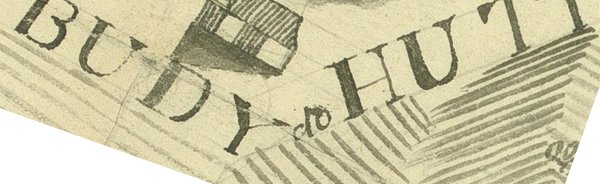
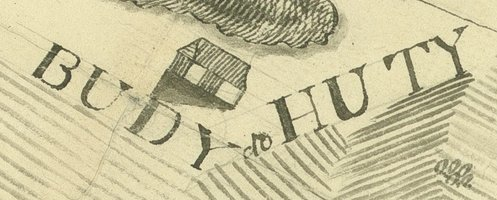
The maps: the editor's final marks on Łukom 1766; a second import made safe
The editor's bands set (100 to 240 pixels) and the eleven labels imported
again: all crops whole and upright. import_labels.py reuses the gazetteer
item already linked to a label and unlinks labels deleted since, so a
second import no longer adds duplicates. Notes, TODO 33, the changelog and
ADDING_A_MAP updated.

diff --git a/pipeline/maps/import_labels.py b/pipeline/maps/import_labels.py
@@ -219,6 +219,17 @@ def main():
     print(f"{len(labels)} labels, {made} crops -> {cdir}")
 
     diffs, news = [], []
+    # A second import of the same map: unlink the labels the editor has since
+    # deleted, and reuse the item already linked to a label (never add a second).
+    ids = {lb["id"] for lb in labels}
+    for path in sorted(GAZETTEER_DIR.glob("*.yml")):
+        g = read_yaml(path)
+        stale = [i for i in g.get("maps") or [] if i.get("map") == key and i.get("label") and i["label"] not in ids]
+        if stale:
+            for i in stale:
+                diffs.append(f"{i['label']}: no longer marked; unlinked from {g.get('slug')}")
+                del i["label"]
+            dump_yaml(path, g, header_of(path))
     for lb in labels:
         if lb["new_place"] and not lb["place"]:
             news.append(f"{lb['id']}: new place {lb['new_place']!r} (form {lb['form']!r})")
@@ -229,7 +240,9 @@ def main():
             die(f"no gazetteer file {path}")
         g = read_yaml(path)
         items = g.setdefault("maps", [])
-        item = next((i for i in items if i.get("map") == key and not i.get("label") and not i.get("absent")), None)
+        item = next((i for i in items if i.get("map") == key and i.get("label") == lb["id"]), None)
+        if item is None:
+            item = next((i for i in items if i.get("map") == key and not i.get("label") and not i.get("absent")), None)
         if item is None:
             item = {"map": key, "form": lb["form"], "note": None}
             items.append(item)

diff --git a/maps/lukom1766/notes.md b/maps/lukom1766/notes.md
@@ -99,10 +99,16 @@ The others: Budy (*Budy do Huty*), Grądzeń (*Grązien*), Łomów (*Lomaw*, cor
 - The fit gives every marked point a position (`positions.yml`), at the
   fit's 336 m.
 
+- **The final marks** (`labels_lukom1766_20261023-2050.json`, 2026-10-23):
+  the editor started from the corrected file, set every band to its
+  letters (100 to 240 pixels) and checked the inscription; imported, all
+  eleven crops whole and upright (Grązien across its wide spacing, the
+  three lines of the inscription, the bent "Budy do Huty"). A second import
+  reuses the gazetteer items already linked to its labels and unlinks
+  labels deleted since (it added duplicates before; fixed in session).
+
 ## Still to do
 
-- The bands of the labels set to the letters by the editor, and their
-  look at the inscription's trace; then the import again.
 - Whether the warp test page shows the map in the right place (not yet
   opened in a browser: the editor's eye, or a later session's).
 - The map's viewer page on the site, and the crops on the place pages, wait

diff --git a/docs/TODO.md b/docs/TODO.md
@@ -1077,10 +1077,9 @@ in, one at a time.
 - [x] Your marks on Łukom 1766 imported (ten labels; Lomaw and Dezerta
       Jemielno corrected at your word; the inscription *Tres mansi
       Conventûs Landensis* added; two-line names handled).
-- [ ] **You:** on the page, "Start from the saved file", then widen the
-      bands to cover the letters (Grązien, Dezerta Jemielno, others) and
-      check the inscription's trace; save; the import again. And look at
-      the warp test page
+- [x] Your bands set and the marks imported again (2026-10-23): eleven
+      labels, all crops whole.
+- [ ] **You:** look at the warp test page
       (https://takaji10.github.io/triebenfeld-maps/warp.html?map=lukom1766).
 - [ ] Then: the import, the crops, the fit again; the map's viewer page
       and the crops on the place pages (with GAZETTEER_PLAN step 3).

diff --git a/docs/CHANGELOG.md b/docs/CHANGELOG.md
@@ -2881,3 +2881,10 @@ lose his estates. The era page writes Konotop, not Kontop.
 - **Tres mansi Conventûs Landensis** recorded under Grądzeń as its second
   appearance on Łukom 1766, linked to the Ląd copy-book's documents of 1447
   and 1461, at the editor's word; label 025 now belongs to Grądzeń.
+- **Padding at both ends** of a band and its crop (the editor's word; a
+  Sonnet sub-agent).
+- **The final marks on Łukom 1766** imported (the editor's bands, 100 to
+  240 pixels): eleven labels, eleven crops whole and upright. The import
+  fixed for a second run on the same map: it reuses the gazetteer item
+  linked to a label and unlinks labels deleted since (it would have added
+  a duplicate for every place).

diff --git a/docs/ADDING_A_MAP.md b/docs/ADDING_A_MAP.md
@@ -103,6 +103,9 @@ session (WORKING_NOTES, "Working with the editor").
   the page is made again from `labels.yml`, and the editor presses "Start
   from the saved file" before going on, or their browser's older copy
   comes back with the next save.
+- **Importing again is safe**: the import reuses the gazetteer item already
+  linked to a label and unlinks the labels deleted since. Run it on each
+  new save.
 - **The uploaded file, not the scan.** MapWarper's points are in the pixels
   of the image uploaded there; any other copy (another size, another turn)
   puts every point in the wrong place. Compare the sizes first.
